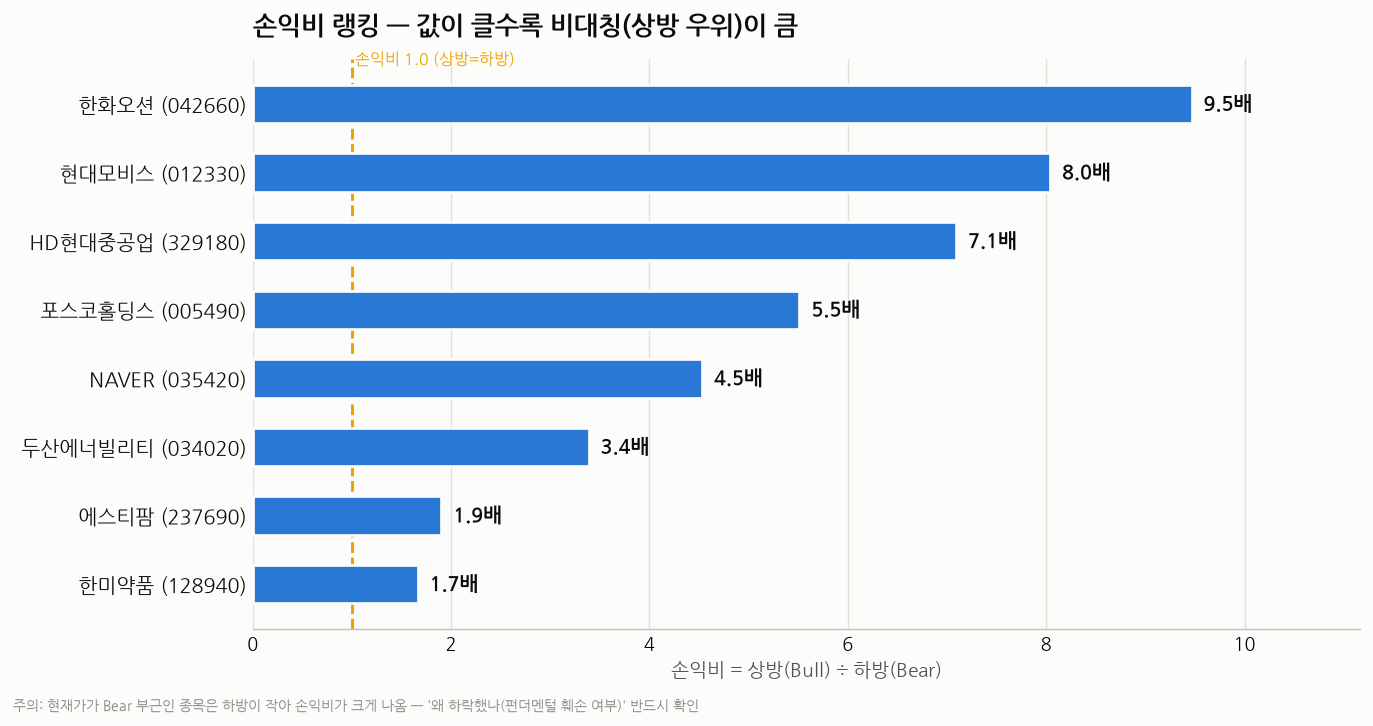
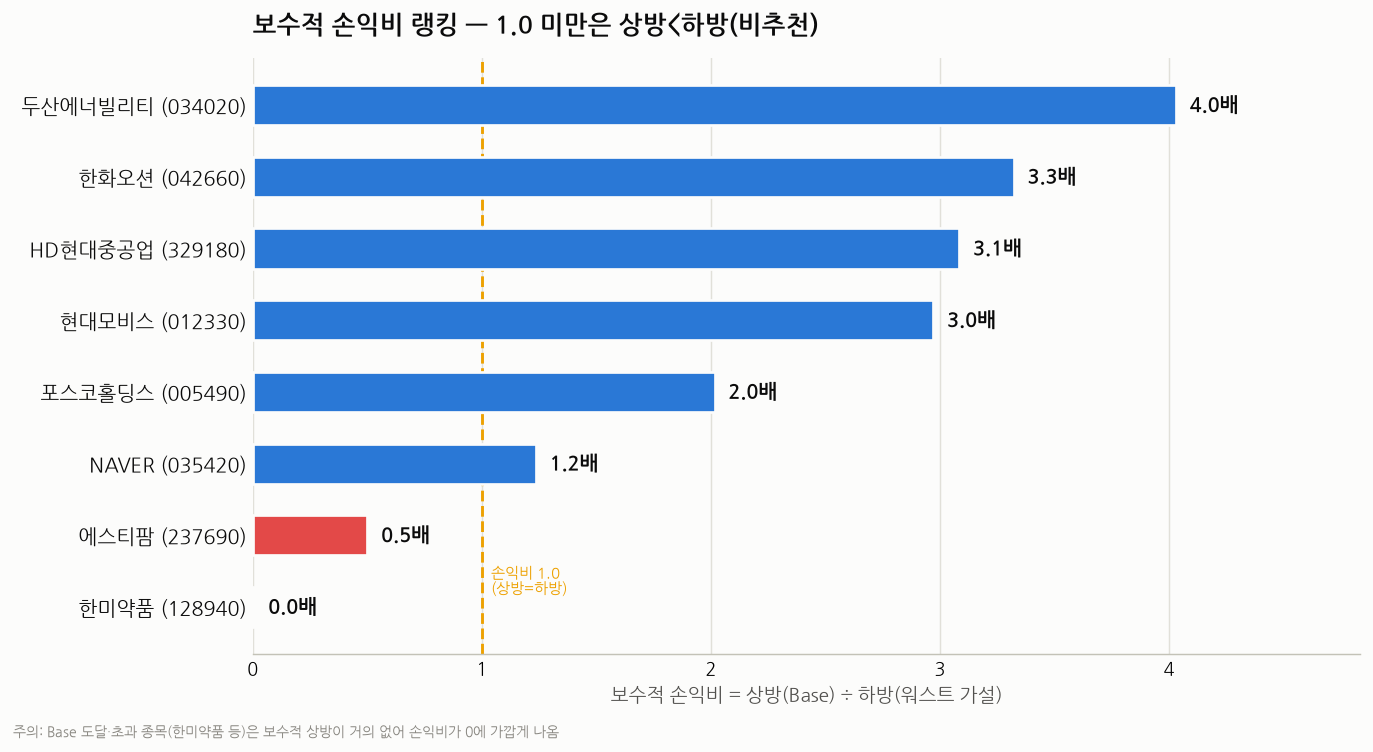
docs(시장브리핑): 손익비 스크리닝 보수 기준 개정 + 트리거·해소여부 추가
- 상방은 Base(기본 시나리오)까지만 인정(Bull·애널 최고목표 배제)
- 하방은 현재가 기준 워스트 케이스 가설로 재설정(리포트 5월 Bear 하회 문제 해소)
- 종목별 베스트/워스트 트리거 + 현재 해소 여부(신호등) 정리
- 보수적 손익비 랭킹: 두산에너빌리티4.0·한화오션3.3·HD현대중공업3.1·현대모비스3.0
- 차트 교체: 보수적 상방/하방, 손익비 랭킹

Claude-Session: https://claude.ai/code/session_01EETVc5VerPTsoLzLjbKW4K

diff --git a/시장브리핑/국내주식_손익비_스크리닝_2026-07.md b/시장브리핑/국내주식_손익비_스크리닝_2026-07.md
@@ -1,94 +1,123 @@
-# 국내주식 손익비(Risk/Reward) 스크리닝 — 2026년 7월
+# 국내주식 손익비(Risk/Reward) 스크리닝 — 2026년 7월 (보수 기준)
 
 > 작성일: 2026-07-27 · 카테고리: 시장브리핑(멀티섹터 스크리닝)
-> 기준 시세: **2026-07-26 KRX 종가**(대형주) / 일부 종목은 리포트·컨센서스 기준 추정
-> 성격: 저장소 내 종목 리포트의 Bull/Base/Bear 시나리오 + 최신 시세·밸류에이션·증권사 목표주가를 결합해 **현재가 기준으로 손익비를 재계산**한 결과.
+> 기준 시세: **2026-07-26 KRX 종가**(대형주) / 에스티팜·한미약품은 리포트·컨센서스 기준 추정
+> 성격: 저장소 종목 리포트의 시나리오를 **보수적으로** 재적용 — 상방은 Bull(강세)이 아닌 **Base(기본)까지만** 인정하고, 하방은 **현재가 기준으로 다시 세운 워스트 가설(Bear)** 을 적용해 손익비를 계산.
 
 ---
 
 ## 한 문장 요약
 
-강세장 후반(코스피 1만 포인트 도전) 국면에서 **이미 오른 종목(반도체 대형주·은행·삼성전기 등)은 상방을 소진**한 반면, **구조적 스토리는 유효한데 수급·업황으로 조정받아 "Bear 바닥" 근처로 내려온 종목**의 손익비가 가장 좋다. 현재가 기준 손익비 상위는 **한화오션·현대모비스·HD현대중공업**(모두 상방/하방 7~9배)이며, 그 뒤로 포스코홀딩스·NAVER·두산에너빌리티가 잇는다.
+강세장 후반에 이미 오른 종목(반도체 대형주·은행·삼성전기)은 제외하고, **구조적 스토리는 유효하나 조정으로 싸진 종목**을 보수 기준으로 추렸다. 상방을 Base로만 제한하고 워스트 하방을 현실적으로 재설정했을 때, 손익비 상위는 **두산에너빌리티(4.0) · 한화오션(3.3) · HD현대중공업(3.1) · 현대모비스(3.0)** 이며, 한미약품·에스티팜은 이미 Base에 근접/도달해 보수 기준으로는 매력이 낮다.
 
 ---
 
-## 방법론 (어떻게 계산했나)
+## 방법론 (보수 기준으로 어떻게 바꿨나)
 
-- **손익비 = 상방(Bull까지 상승률) ÷ 하방(Bear까지 하락률)**. 값이 1보다 크면 상방 우위(비대칭 유리).
-- 모든 수치는 **오늘 시세** 기준. 시나리오(Bull/Base/Bear) 절대 레벨은 저장소 종목 리포트 + 최신 증권사 목표주가를 반영해 갱신.
-- **왜 "현재가 기준"이 핵심인가**: 5월 리포트 대비 반도체·은행 등은 주가가 크게 올라 Bull 목표를 소진(삼성전기는 리포트 Bull 초과). 반대로 조선·자동차부품은 조정으로 Bear까지 내려와 비대칭이 좋아졌다. **같은 시나리오라도 진입 가격이 손익비를 결정한다.**
+세 가지 원칙으로 "가장 보수적인 가격"을 적용했다.
 
-![상방/하방 레인지](img_손익비스크리닝/01_상방하방_레인지.png)
+1. **상방 = Base(기본 시나리오)까지만.** 저장소 리포트의 낙관(Bull) 목표와 증권사 최고 목표주가는 **쓰지 않았다.** (조선주 등은 Bull이 최신 애널 목표보다 높아 상방을 부풀리기 때문.)
+2. **하방 = 현재가 기준 "워스트 가설"로 재설정.** 리포트의 5월 Bear는 이후 주가 하락으로 이미 하회된 경우가 많아 "워스트 −0%"라는 비현실적 결과가 나왔다. 그래서 **각 종목의 밸류에이션 하단 + 악재 트리거를 근거로 워스트 케이스를 새로 가정**했다(아래 표).
+3. **손익비 = 상방(Base) ÷ 하방(워스트 가설).** 모두 오늘 시세 기준.
 
-![손익비 랭킹](img_손익비스크리닝/02_손익비_랭킹.png)
+> ⚠ **숫자 출처 구분**: 현재가·PER/PBR·증권사 목표주가는 실제 데이터/애널리스트 기반이다. 그러나 **Base는 저장소 리포트의 기본 시나리오, 워스트(Bear)는 내가 세운 가설**이다. 즉 손익비는 "애널리스트 컨센서스"가 아니라 **보수적 시나리오 판단값**이다.
 
----
+### 워스트 케이스(Bear) 가설과 근거
 
-## 손익비 랭킹 (2026-07-26 기준)
+| 종목 | 워스트 가설 | 근거(밸류에이션 하단 + 트리거) |
+|---|---|---|
+| 두산에너빌리티 | 55,000 (−24%) | 원전 수주 지연·SMR 상용화 지연·AI전력 테마 냉각 → 직전 지지선 |
+| 한화오션 | 68,000 (−23%) | 사이클 피크아웃·수주 추가 부진·후판가 급등 → PER 12배 디레이팅 |
+| HD현대중공업 | 390,000 (−20%) | 수주 모멘텀 둔화·고PER(29배) 디레이팅 → PER 20배 |
+| 현대모비스 | 380,000 (−21%) | 관세 재부과·전기차 캐즘·완성차 둔화 → PBR 0.55배(역사 하단) |
+| 포스코홀딩스 | 18.5조 (−25%) | 중국 공급과잉·리튬 적자 지속·경기침체 → PBR 0.28배 |
+| NAVER | 165,000 (−20%) | AI 검색 점유 잠식·광고 둔화·AI capex 부담 → PER 11배 |
+| 에스티팜 | 100,000 (−33%) | 고객사 발주 축소·임상 지연 |
+| 한미약품 | 400,000 (−26%) | 지배구조 분쟁 재점화·후속 기술수출 부재 |
 
-| 순위 | 종목(코드) | 현재가 | Bear / Base / Bull | 하방 | 상방(Base) | 상방(Bull) | **손익비** | 밸류에이션 |
-|---|---|---|---|---|---|---|---|---|
-| 1 | **한화오션(042660)** | 87,900 | 7.5만 / 14.5만 / 21만 | −15% | +65% | **+139%** | **9.5** | 26F PER ~20배 |
-| 2 | **현대모비스(012330)** | 482,000 | 43만 / 70만 / 90만 | −11% | +45% | **+87%** | **8.0** | **26F PER 7.7배·PBR 0.7배(역사적 저점)** |
-| 3 | **HD현대중공업(329180)** | 485,500 | 42만 / 78만 / 95만 | −13% | +61% | **+96%** | **7.1** | PER ~29배(사이클 고점) |
-| 4 | **포스코홀딩스(005490)** | 313,000 | 27만 / 40만 / 55만 | −14% | +28% | +76% | **5.5** | PBR ~0.38배(철강 트로프) |
-| 5 | **NAVER(035420)** | 207,500 | 16.5만 / 30만 / 40만 | −20% | +45% | +93% | **4.5** | 12M PER 14.7배(저점) |
-| 6 | **두산에너빌리티(034020)** | 72,100 | 5.5만 / 10.5만 / 13만 | −24% | +46% | +80% | **3.4** | ATH(14.2만) 대비 −49% |
-| 7 | 에스티팜(237690) | ~150,000* | 10만 / 17.5만 / 24.5만 | −33% | +17% | +63% | 1.9 | 올리고 CDMO |
-| 8 | 한미약품(128940) | ~539,000* | 40만 / 62만 / 77만 | −26% | +15% | +43% | 1.7 | 릴리 GLP-2 기술수출 |
+![보수적 상방/하방](img_손익비스크리닝/01_보수적_상방하방.png)
 
-\* 6·7행(에스티팜·한미약품)은 리포트/증권사 컨센서스 기준 추정 현재가. 나머지는 2026-07-26 KRX 종가.
-
----
-
-## 티어별 해설 (최신 근거 반영)
-
-### A티어 — "Bear 바닥에 온 우량 시클리컬" (지금 최고의 비대칭)
-
-**1. 한화오션 (042660) · 손익비 9.5**
-5월 13.2만 → 현재 8.8만(−34%). 하락 트리거는 특정 대형 수주 불발(키움, 목표주가 14.4만으로 하향)이었으나, 6월 말 기준 상선 21척·34억 달러를 확보하며 잔고는 견조. 현재가가 이미 Bear(9.7만) 아래로, 시나리오상 하방이 얇고 LNG선·미국 필리조선소 옵션이 상방을 연다.
-
-**2. 현대모비스 (012330) · 손익비 8.0 — 개인적 최선호**
-5월 64.9만 → 현재 48.2만(−26%). 그런데 펀더멘털은 오히려 개선: **2Q26 영업이익 9,752억(+12% YoY, 컨센 +7.5% 상회)**, AS부품 26%대 고마진 유지, **7월까지 5,000억 자사주 매입 후 8월 3일 전량 소각**. **26F PER 7.7배·PBR 0.7배로 역사적 저점**인데 실적·주주환원은 우상향 → "하방은 밸류에이션이 막고 상방만 남은" 전형적 비대칭. 목표주가 77만(유지)~90만.
-
-**3. HD현대중공업 (329180) · 손익비 7.1**
-5월 66.7만 → 현재 48.6만(−27%), **현재가가 Bear(48만) 바로 위**. 조정은 수주 기대 되돌림 탓이나 신규 수주 목표를 5월 말 62% 달성, 잔고 4년치 슈퍼사이클 유지. 키움 목표 88만. PER 29배로 절대 밸류는 부담이나 사이클 이익 레벨업이 관건. (참고: 삼성중공업은 3사 중 수주 진척률 최고 — 목표 57억 달러의 91% 달성.)
-
-### B티어 — "구조적 저평가 + 촉매 대기"
-
-**4. 포스코홀딩스 (005490) · 손익비 5.5** — 시총 24.8조, PBR ~0.38배로 철강 트로프이자 시나리오 Bear 바닥. 철강 업황 반등·리튬 사업이 촉매. 다만 철강은 구조적 저성장이라 Base(+28%)가 현실적 1차 목표.
-
-**5. NAVER (035420) · 손익비 4.5** — 12M PER 14.7배로 인터넷 대형주 중 최저 구간. 하방이 두껍고(플랫폼 캐시플로), AI·클라우드 성과(AI팩토리 계약 등) 발표 시 탄력 반등. 목표주가 하나 40만·KB 33만·CLSA 30만.
-
-**6. 두산에너빌리티 (034020) · 손익비 3.4** — ATH 14.2만 → 7.2만(−49%)로 낙폭 최대. 2026년부터 대형원전 주기기·SMR·가스터빈 고마진 사이클 진입, 대신증권 목표주가 13만(상향). 낙폭 큰 만큼 하방(−24%)도 상대적으로 크다.
-
-### C티어 — "바이오 옵션성" (상방 크지만 하방도 커 손익비는 낮음)
-
-**7. 에스티팜 (237690)** — 올리고 CDMO, KB 목표 20만. Bull 확률이 상대적으로 높으나(리포트 20/45/35) 하방 −33%.
-**8. 한미약품 (128940)** — 릴리 GLP-2 기술수출로 재평가, DS 목표 68만(+26%). 다만 이미 반등해 손익비는 1.7로 축소. K-바이오 빅4 중 가장 안정적이라는 점이 매력.
-(고위험 옵션: 보로노이·펩트론은 상방 +50~85%지만 하방도 −50% 수준 → 손익비 ≈ 1.0, 포지션 소액 권장.)
+![보수적 손익비 랭킹](img_손익비스크리닝/02_손익비_랭킹.png)
 
 ---
 
-## 지금은 피하거나 신중할 것 (손익비 이미 소진)
+## 보수적 손익비 랭킹
 
-| 종목/그룹 | 이유 |
-|---|---|
-| SK하이닉스(000660) | 144.7만 → 175.9만, Base(175만) 도달 — 상방 협소 |
-| 삼성전기(009150) | 현재가 132.6만이 **리포트 Bull(88만) 초과** — 시나리오 재작성 필요 |
-| 은행주(KB금융 등) | 밸류업 랠리로 시총이 Bull 목표 돌파 — 재평가 상당 부분 완료 |
-| 방산·완성차(현대차 등) | 재무장·관세 완화 랠리로 이미 Base~Bull 구간 |
+| 순위 | 종목(코드) | 현재가 | 워스트(Bear·가설) | Base(상방) | 하방 | 상방 | **손익비** |
+|---|---|---|---|---|---|---|---|
+| 1 | **두산에너빌리티(034020)** | 72,100 | 55,000 | 141,000 | −24% | +96% | **4.0** |
+| 2 | **한화오션(042660)** | 87,900 | 68,000 | 154,000 | −23% | +75% | **3.3** |
+| 3 | **HD현대중공업(329180)** | 485,500 | 390,000 | 780,000 | −20% | +61% | **3.1** |
+| 4 | **현대모비스(012330)** | 482,000 | 380,000 | 785,000 | −21% | +63% | **3.0** |
+| 5 | **포스코홀딩스(005490)** | 24.8조 | 18.5조 | 37.5조 | −25% | +51% | **2.0** |
+| 6 | NAVER(035420) | 207,500 | 165,000 | 260,000 | −20% | +25% | 1.2 |
+| 7 | 에스티팜(237690) | ~150,000 | 100,000 | 175,000 | −33% | +17% | 0.5 |
+| 8 | 한미약품(128940) | ~539,000 | 400,000 | 540,000 | −26% | +0% | 0.0 |
 
-(삼성전자는 예외적으로 Bull 42만 시나리오가 살아 있어 +68%/−48% 양방향 — 손익비는 중립.)
+손익비 1.0 미만(에스티팜·한미약품)은 **보수 기준으로 상방보다 하방이 커** 추천하지 않는다.
+
+---
+
+## 베스트/워스트 케이스 트리거 & 현재 해소 여부
+
+각 종목의 상방/하방을 여는 실제 촉매와, 그것이 지금 **해소됐는지**를 정리했다.
+
+### 1. 두산에너빌리티 (034020) — 손익비 4.0
+- **베스트 트리거**: 체코·중동 대형원전 추가 수주, SMR 상용 발주, 가스터빈·AI 데이터센터 전력 수요
+- **워스트 트리거**: 원전 수주 지연/무산, SMR 상용화 지연, AI전력 테마 냉각
+- **해소 여부**: 🟡 **부분 해소** — 2025 역대급 수주로 이익 사이클 진입은 확정. 그러나 **SMR 상용화·추가 대형수주는 미해소(대기)**. ATH(14.2만) 대비 −49% 조정은 테마 기대 되돌림 반영.
+
+### 2. 한화오션 (042660) — 손익비 3.3
+- **베스트 트리거**: LNG선 대량 수주, 미국 필리조선소(MRO·군함 정비) 본격 매출, 카타르/모잠비크 발주
+- **워스트 트리거**: 대형 수주 불발, 후판가 급등 마진 훼손, 사이클 피크아웃
+- **해소 여부**: 🟡 **악재 노출·소화 중** — 특정 대형 수주 불발이 이미 발생해 주가·목표주가(키움 14.4만 하향)에 반영. 상선 21척(34억달러) 확보로 잔고는 방어. **미국 조선 협력·군함 MRO는 미해소 상방 옵션**.
+
+### 3. HD현대중공업 (329180) — 손익비 3.1
+- **베스트 트리거**: 선가 상승 지속, 친환경선(LNG·암모니아·메탄올) 교체 수요, 함정(방산) 수출
+- **워스트 트리거**: 신규 수주 모멘텀 둔화, 후판가 상승, 고 PER(29배) 디레이팅
+- **해소 여부**: 🟡 **진행 중** — 신규수주 목표 5월말 62% 달성. 수주 기대 되돌림은 주가 조정으로 일부 반영. **밸류 부담(PER 29배)은 미해소** — 사이클 이익 레벨업 확인 필요.
+
+### 4. 현대모비스 (012330) — 손익비 3.0 (트리거 해소도 가장 높음)
+- **베스트 트리거**: 전동화·자율주행 부품(전장) 매출 확대, 미국 관세율 인하, 자사주 소각
+- **워스트 트리거**: 미국 관세 재부과, 전기차 캐즘 심화, 완성차(현대차·기아) 판매 둔화
+- **해소 여부**: 🟢 **상당 부분 해소** — **2Q26 영업이익 9,752억(+12% YoY, 컨센 +7.5% 상회)로 실적 우려 해소**, 관세율 인하 효과 반영, **5,000억 자사주 8/3 전량 소각 예정**. PER 7.7·PBR 0.7배 저점. → 8종목 중 워스트 트리거가 가장 많이 해소된 종목.
+
+### 5. 포스코홀딩스 (005490) — 손익비 2.0
+- **베스트 트리거**: 중국 감산·철강 업황 반등, 리튬 등 2차전지 소재 흑자 전환, 밸류업 재평가
+- **워스트 트리거**: 중국 공급과잉·저가 수출 지속, 리튬 가격 약세, 글로벌 경기침체
+- **해소 여부**: 🔴 **대부분 미해소** — 업황 반등·리튬 회복은 진행 안 됨. 밸류업(저PBR)만 부분 진행. Base 도달까지 시간 필요.
+
+### 6. NAVER (035420) — 손익비 1.2
+- **베스트 트리거**: AI팩토리/소버린 AI 계약·클라우드 성과 가시화, 커머스·광고 회복
+- **워스트 트리거**: AI 검색 경쟁(챗GPT 등)에 검색 점유 잠식, 광고 둔화, AI capex 부담
+- **해소 여부**: 🔴 **핵심 상방 트리거 미해소** — AI 성과 가시화가 아직 안 나온 것이 저평가(PER 14.7배)의 이유이자 리레이팅 열쇠. 검색 잠식 우려도 미해소.
+
+### 7. 에스티팜 (237690) — 손익비 0.5
+- **베스트 트리거**: 올리고 CDMO 수주 확대(비만·고지혈 신약 원료), 신규 캐파 가동
+- **워스트 트리거**: 고객사 임상 지연/발주 축소, 올리고 경쟁 심화
+- **해소 여부**: 🟡 올리고 구조적 수요는 진행, 개별 발주 변동성은 상존. 보수 기준 상방 협소.
+
+### 8. 한미약품 (128940) — 손익비 0.0
+- **베스트 트리거**: 릴리 GLP-2 기술수출, 후속 파이프라인 기술수출, 마일스톤·로열티 유입
+- **워스트 트리거**: 오너 지배구조 분쟁 재점화, 임상 실패/기술 반환
+- **해소 여부**: 🟢/🔴 혼재 — **릴리 기술수출은 이미 실현(Bull 트리거 소화, 주가 반영)** → 보수적 상방(Base)이 거의 남지 않음. 지배구조 리스크는 미해소. 보수 기준으로는 진입 매력 낮음.
+
+---
+
+## 종합 판단 (보수 기준)
+
+- **A티어 (손익비 3.0+)**: 두산에너빌리티·한화오션·HD현대중공업·현대모비스. 상방(Base) +61~96% vs 하방 −20~24%. 이 중 **현대모비스는 워스트 트리거가 가장 많이 해소**(실적·관세·주주환원)돼 "싼데 악재는 빠진" 조합이 가장 깔끔하다.
+- **B티어 (손익비 2.0)**: 포스코홀딩스. 상방은 크나 **트리거가 대부분 미해소** → 시간이 필요한 가치주.
+- **관망 (손익비 1.2 이하)**: NAVER(촉매 대기), 에스티팜·한미약품(보수 상방 소진).
 
 ---
 
 ## 리스크 · 유의사항 (반드시 읽을 것)
 
-1. **이 문서는 투자 조언이 아니라 시나리오 기반 스크리닝**이다. Bull/Base/Bear 레벨·확률·목표주가는 추정치이며 틀릴 수 있다.
-2. **"Bear 아래로 빠졌다 = 항상 기회"가 아니다.** 펀더멘털이 훼손됐다면 Bear 자체가 더 낮게 재설정된다. A티어(조선·모비스)일수록 **하락 원인이 단순 수급/업황인지, 실적 훼손인지** 반드시 확인해야 한다.
-3. **데이터 정합성 한계**: 일부 종목은 저장소 리포트 간 기준가·시총이 상이했다(두산에너빌리티·현대모비스 개별 vs 그룹표 등). 매매 전 최신 사업보고서·실시세로 교차확인 필요.
-4. 에스티팜·한미약품 현재가는 리포트/컨센서스 기준 추정이며 실시세와 차이가 있을 수 있다.
+1. **이 문서는 투자 조언이 아니다.** 특히 **워스트(Bear)는 애널리스트 예측이 아니라 내가 세운 가설**이고, Base도 저장소 리포트의 시나리오다. 실제와 다를 수 있다.
+2. **"트리거 미해소"가 나쁜 것만은 아니다.** 미해소 = 아직 주가에 반영 안 됨 = 해소 시 상방 여지. 반대로 **해소된 종목(현대모비스)** 은 이미 좋아진 만큼 추가 촉매가 필요하다.
+3. **A티어는 대부분 "왜 빠졌나"가 실적이 아닌 수급/업황**이지만, 조선·모비스의 하락 원인이 구조적 훼손으로 바뀌면 워스트 가설을 더 낮춰야 한다.
+4. 에스티팜·한미약품 현재가는 리포트/컨센 추정이며 실시세와 차이가 있을 수 있다.
 5. 손익비만 보고 집중투자하기보다 **분산·비중 조절**을 권한다.
 
 ---
@@ -104,4 +133,4 @@
 - [에스티팜 목표주가 (KB증권)](https://kbthink.com/securities-view.html?docId=20260720135135713K)
 - [한미약품 기술수출·목표주가 (헬로티)](https://www.hellot.net/news/article.html?no=112970)
 
-> 유의: 시가총액·목표주가·밸류에이션·시나리오 확률은 증권사·언론 추정치이며 시점에 따라 달라진다. 차트의 상방/하방은 위 표의 시나리오 레벨을 현재가 기준으로 환산한 것이다. 확정 수치는 각 사 사업보고서·분기보고서 원문으로 교차확인을 권한다.
+> 유의: Base·워스트 가설·트리거 해소 판단은 시점에 따라 달라진다. 확정 수치·공시는 각 사 사업보고서·분기보고서 및 최신 증권사 리포트로 교차확인을 권한다.
